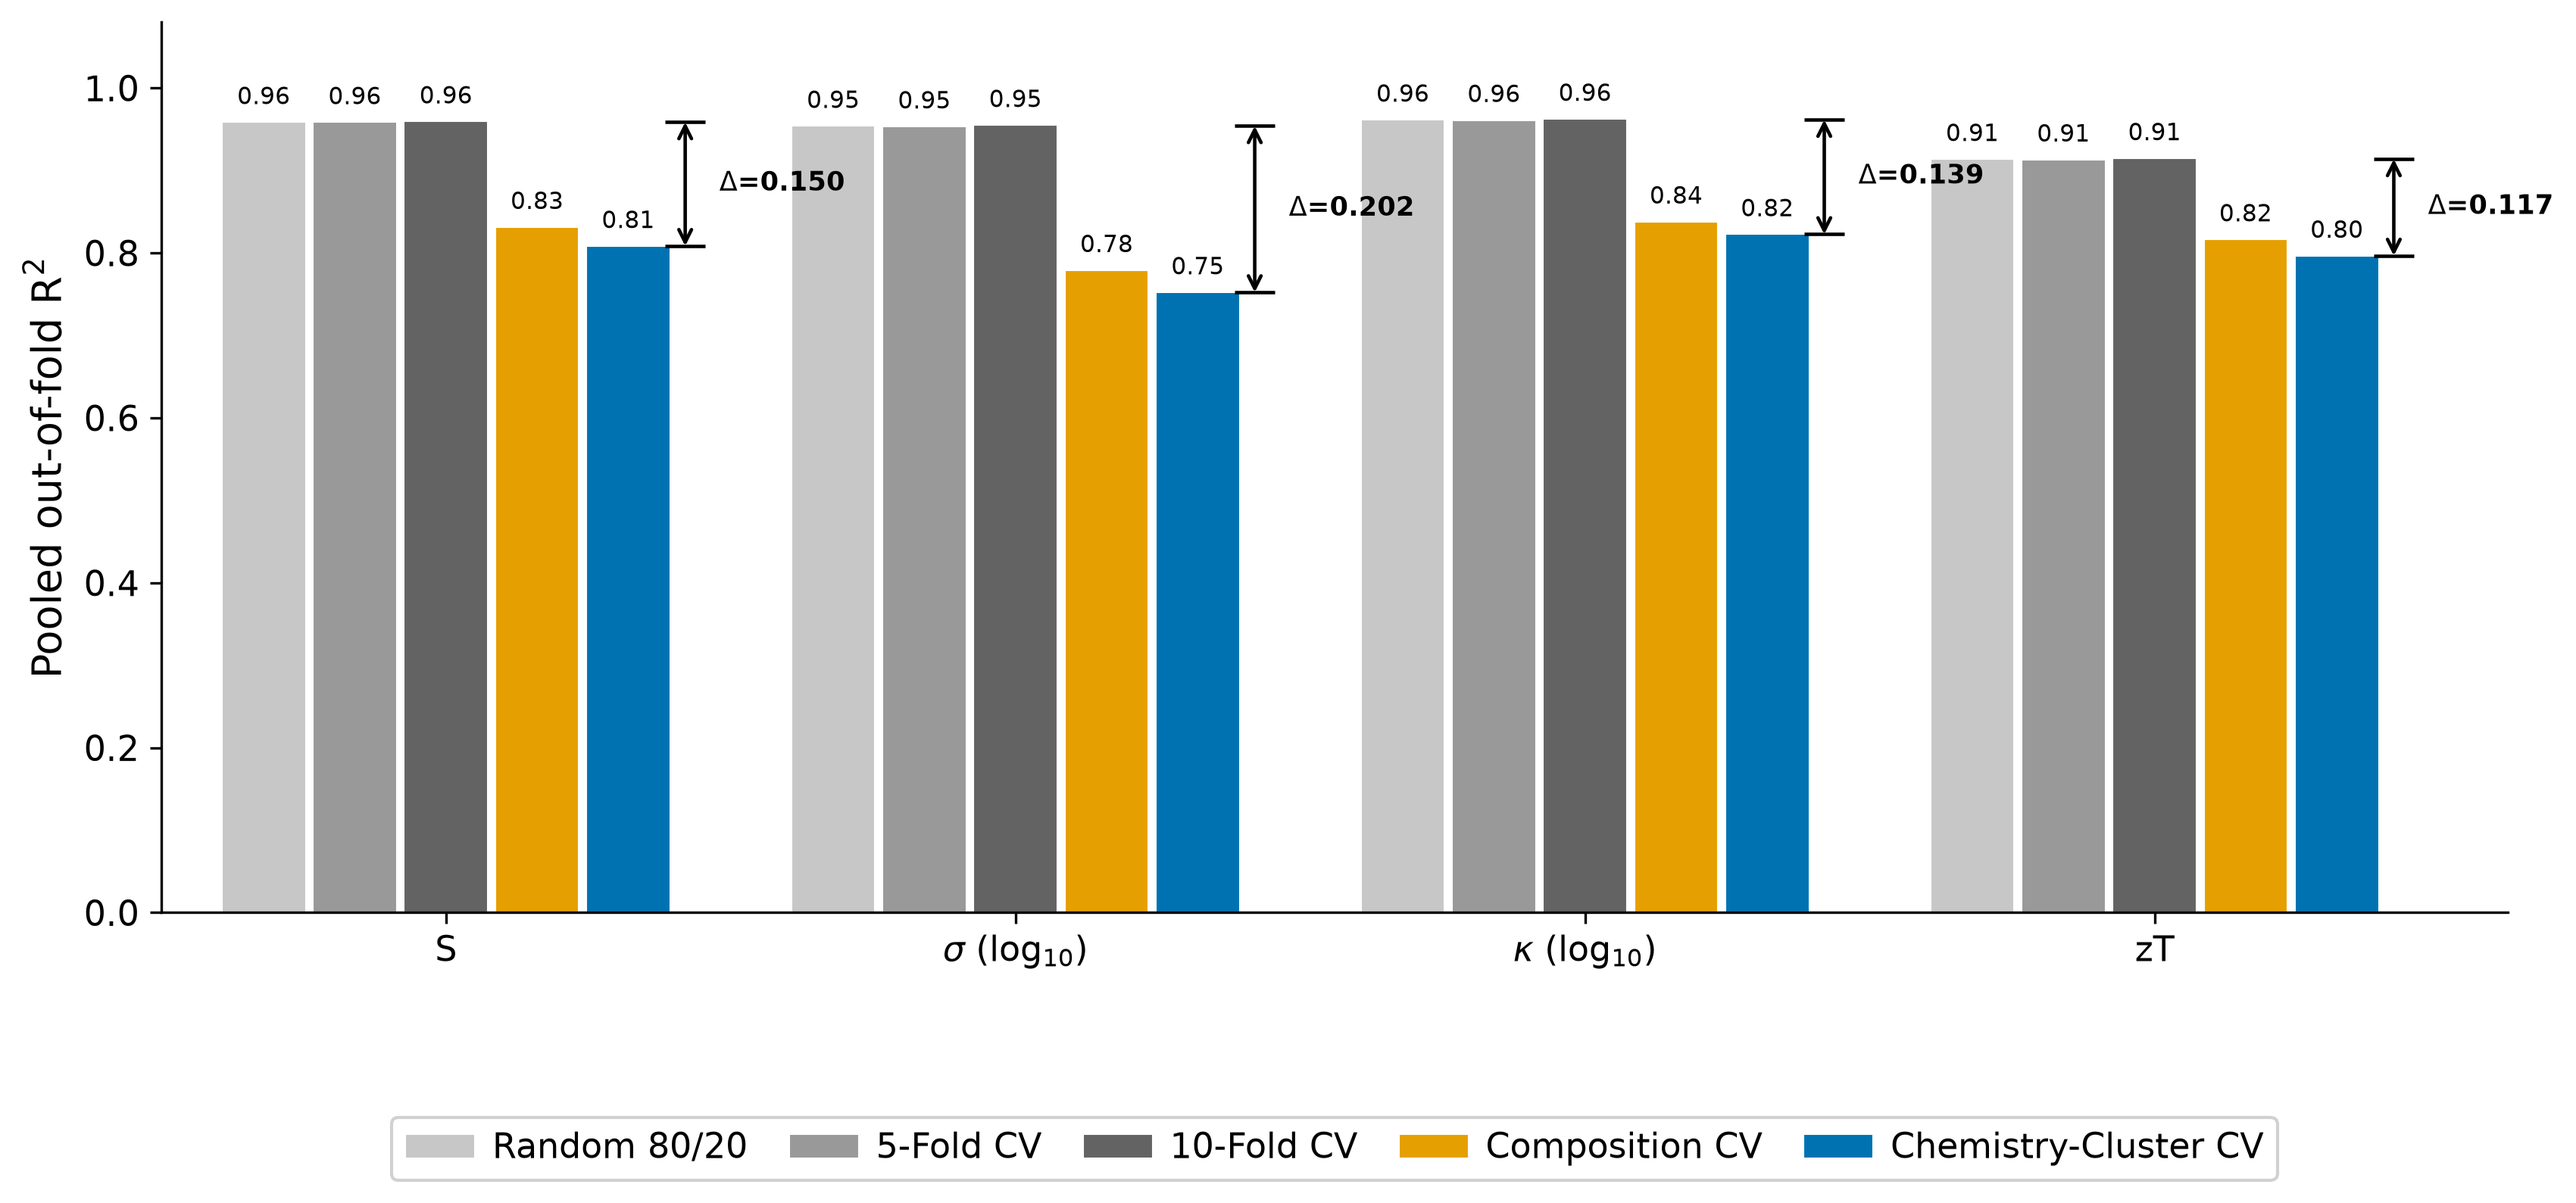
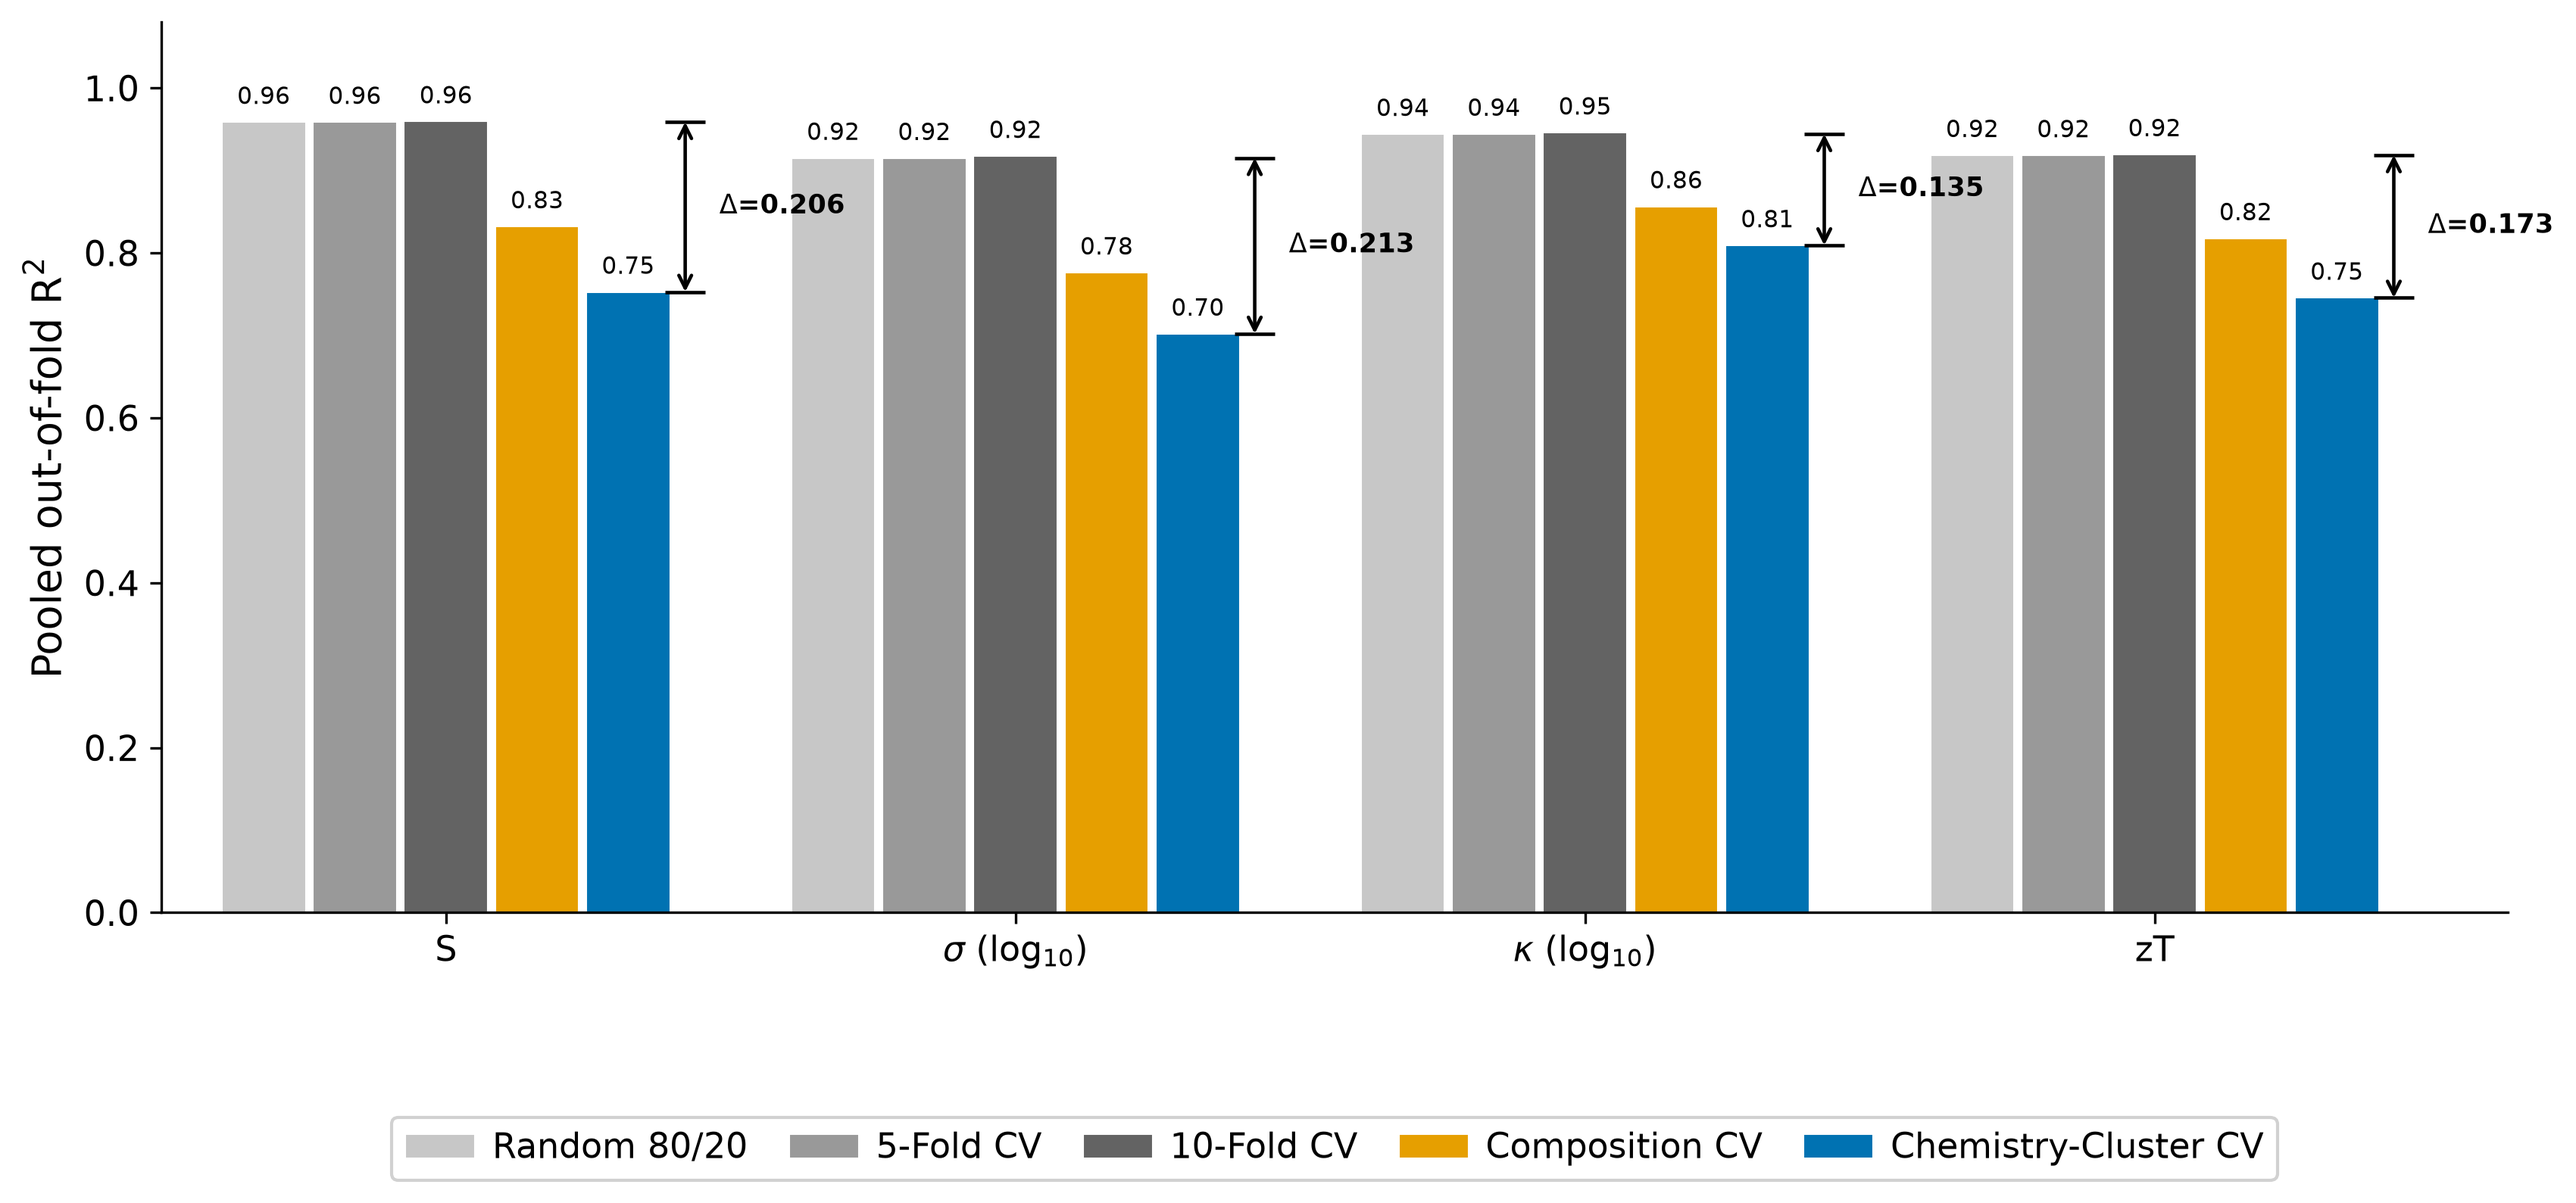
Update validation-ladder constants to snapfix and confirmed-log10 values
LADDER_RESULTS's Composition CV and Chemistry-Cluster CV rows updated to
the snapfix regeneration (results/ladder_regen_snapfix/20260917T150000/,
tabulated in reports/regen_snapfix/20260917T150000/ladder_metrics.json):
composition S=0.8322/sigma=0.7762/kappa=0.8565/zT=0.8178, chemistry
S=0.7528/sigma=0.7020/kappa=0.8092/zT=0.7456.

Random 80/20, 5-fold, and 10-fold rows corrected to CLAUDE.md's confirmed
values (S 0.9588/0.9588/0.9595, sigma 0.9152/0.9150/0.9175, kappa
0.9442/0.9444/0.9459, zT 0.9186/0.9184/0.9196), sourced from
checkpoints/ladder_regen_dl/{target}_{random,kfold}_f{5,10,20}/ --
recomputed pooled R^2 directly from those checkpoints' *_predictions.npz
files and matched CLAUDE.md to 4 decimals on all 12 cells. The previous
ungrouped values here were not a log10-vs-linear scale mismatch (both old
and new use log10 for sigma/kappa, confirmed via each run's own
run_config.json / table header) -- they were the orphaned pre-2026-08-22
run's ungrouped cells, found verbatim in checkpoints/saved_predictions/
te-ml-pipeline/CLAUDE.md, a stale in-tree snapshot of an earlier CLAUDE.md
whose own ladder table matches this file's old values on all five rungs.
That run has no surviving run_config.json anywhere on disk and is the
same one CLAUDE.md already calls out as superseded/unreproducible for its
composition and chemistry cells.

Old values (all five rungs) kept as a commented PRE-FIX (SUPERSEDED)
block, same pattern used for the File B cleaning-funnel constants.
[…]

diff --git a/scripts/make_figures.py b/scripts/make_figures.py
@@ -69,6 +69,24 @@ FIG3_AXIS_LABELS = {
 # cleaning_funnel.png (mislabeled: sits in File A's directory tree but
 # renders File B's funnel) was generated from. File A's own funnel had
 # never been computed until 2026-09-14.
+# STALE (flagged 2026-09-19, values NOT changed): this entire table
+# predates BOTH grouping fixes (SNAP(0.05) chemistry_cluster_id, S5
+# randomized_group_kfold, commit c1c6873) and the reproducible 2026-08-22
+# checkpoint set -- every cell, including the XGBoost row, is from the
+# orphaned pre-2026-08-22 run CLAUDE.md's Five-Way Ladder section
+# describes as "none of which could be verified or reproduced" (XGBoost
+# row here == that section's quoted orphaned values: S=0.8083,
+# sigma=0.7522, kappa=0.8226, zT=0.7965). It is therefore two
+# regenerations behind the current snapfix ladder, not one. Regenerating
+# this figure for real needs LightGBM/Random Forest/Ridge chemistry-
+# cluster refits against the snapfix CSV (tune_once + 5 repeats x 5 outer
+# folds each per model, via nested_cv.py's --model flag and the
+# six-command workflow in CLAUDE.md's Paper A item 1) -- only XGBoost's
+# cell could be swapped in today (from results/ladder_regen_snapfix/
+# 20260917T150000/), so nothing below is touched rather than partially
+# updated. See the make_figures.py task report for the compute-cost
+# estimate of the full rerun.
+#
 # Pooled out-of-fold R^2 under chemistry-cluster grouped CV, frozen
 # hyperparameters per (target, model_type) via nested_cv.py's tune_once,
 # see CLAUDE.md "Confirmed Results -- Five-Way Ladder" and Paper A item
@@ -94,17 +112,72 @@ MODEL_COMPARISON_CEILING_MODEL = "XGBoost"
 # XGBoost hyperparameters reused unchanged across all five rungs -- see
 # CLAUDE.md "Confirmed Results -- Five-Way Ladder" (Paper A item 1).
 # sigma/kappa in log10 space, S/zT linear, same as MODEL_COMPARISON_RESULTS.
+#
+# Composition and Chemistry-Cluster CV rows: results/ladder_regen_snapfix/
+# 20260917T150000/{S,sigma,kappa,zT}_{composition,chemistry}_full/,
+# tabulated in reports/regen_snapfix/20260917T150000/ladder_metrics.json
+# -- regenerated against the fixed grouping (SNAP(0.05)
+# chemistry_cluster_id, S5 randomized_group_kfold, commit c1c6873) and the
+# snapfix featurized CSV. Point estimates only (bar heights below); each
+# also carries an across-5-repeat SD in CLAUDE.md's Five-Way Ladder table
+# (composition: S +/-0.0044, sigma +/-0.0015, kappa +/-0.0013, zT
+# +/-0.0009; chemistry: S +/-0.0050, sigma +/-0.0020, kappa +/-0.0021, zT
+# +/-0.0045) not plotted here, since this figure draws single bar heights
+# with no error-bar mechanism.
+#
+# Random 80/20, 5-Fold, and 10-Fold rows: checkpoints/ladder_regen_dl/
+# {target}_{composition,kfold,random}_f{5,10,20}/ (folder-name suffix is
+# outer-fold count, e.g. sigma_random_f20, kappa_kfold_f10), each with a
+# run_config.json confirming target_scale=log10 (sigma/kappa), seed=0,
+# and the canonical frozen-hyperparameters path. Pooled R^2 recomputed
+# directly from these checkpoints' *_predictions.npz files matches
+# CLAUDE.md's confirmed ungrouped row to 4 decimals on every target.
+# These rungs are unaffected by the SNAP(0.05)/S5 grouping fix for a
+# structural reason, not just a code-path one: the snapfix featurized CSV
+# differs from File A only in the chemistry_cluster_id column (see
+# CLAUDE.md's Grouping Fixes section), and the ungrouped split code path
+# never reads that column, so re-running it against the snapfix CSV
+# cannot change its output.
+#
+# RESOLVED 2026-09-22: the previous values here (S=0.9586, sigma=0.9539,
+# kappa=0.9615, zT=0.9138 for random 80/20, etc.) were NOT a log10-vs-
+# linear scale mismatch -- both this row and the current one use log10
+# for sigma/kappa. They were the orphaned pre-2026-08-22 run's ungrouped
+# cells (found verbatim, all three rows, in checkpoints/saved_predictions/
+# te-ml-pipeline/CLAUDE.md, a stale in-tree snapshot of an earlier
+# CLAUDE.md whose own Five-Way Ladder table -- itself explicitly log10-
+# space -- matches this file's old LADDER_RESULTS on all five rungs) --
+# the same run current CLAUDE.md already calls out as superseded and
+# unreproducible for its composition/chemistry cells. No run_config.json
+# for that orphaned run exists anywhere on disk. See the PRE-FIX
+# (SUPERSEDED) block below for the old values, kept for audit.
 LADDER_PROPERTIES = ["S", "sigma", "kappa", "zT"]
 LADDER_PROPERTY_LABELS = [
     "S", "$\\sigma$ (log$_{10}$)", "$\\kappa$ (log$_{10}$)", "zT",
 ]
 LADDER_STRATEGIES = ["Random 80/20", "5-Fold CV", "10-Fold CV", "Composition CV", "Chemistry-Cluster CV"]
+
+# PRE-FIX (SUPERSEDED 2026-09-19, ungrouped rows added 2026-09-22) -- all
+# five rows below are the orphaned pre-2026-08-22 run (same origin as
+# MODEL_COMPARISON_RESULTS's stale table above). Composition/chemistry
+# were superseded twice over (the reproducible 2026-08-22 checkpoint set,
+# then the SNAP(0.05)/S5 grouping fix); random/5-fold/10-fold are
+# superseded once (by the reproducible 2026-08-22 checkpoint set only --
+# the grouping fix does not touch them, see the comment above). Kept for
+# audit, not deleted -- see CLAUDE.md's Five-Way Ladder section,
+# "SUPERSEDED 2026-09-19" entries.
+# "Random 80/20":         {"S": 0.9586, "sigma": 0.9539, "kappa": 0.9615, "zT": 0.9138},
+# "5-Fold CV":            {"S": 0.9585, "sigma": 0.9533, "kappa": 0.9611, "zT": 0.9132},
+# "10-Fold CV":           {"S": 0.9594, "sigma": 0.9550, "kappa": 0.9625, "zT": 0.9148},
+# "Composition CV":       {"S": 0.8314, "sigma": 0.7791, "kappa": 0.8380, "zT": 0.8164},
+# "Chemistry-Cluster CV": {"S": 0.8083, "sigma": 0.7522, "kappa": 0.8226, "zT": 0.7965},
+
 LADDER_RESULTS = {
-    "Random 80/20":         {"S": 0.9586, "sigma": 0.9539, "kappa": 0.9615, "zT": 0.9138},
-    "5-Fold CV":            {"S": 0.9585, "sigma": 0.9533, "kappa": 0.9611, "zT": 0.9132},
-    "10-Fold CV":           {"S": 0.9594, "sigma": 0.9550, "kappa": 0.9625, "zT": 0.9148},
-    "Composition CV":       {"S": 0.8314, "sigma": 0.7791, "kappa": 0.8380, "zT": 0.8164},
-    "Chemistry-Cluster CV": {"S": 0.8083, "sigma": 0.7522, "kappa": 0.8226, "zT": 0.7965},
+    "Random 80/20":         {"S": 0.9588, "sigma": 0.9152, "kappa": 0.9442, "zT": 0.9186},
+    "5-Fold CV":            {"S": 0.9588, "sigma": 0.9150, "kappa": 0.9444, "zT": 0.9184},
+    "10-Fold CV":           {"S": 0.9595, "sigma": 0.9175, "kappa": 0.9459, "zT": 0.9196},
+    "Composition CV":       {"S": 0.8322, "sigma": 0.7762, "kappa": 0.8565, "zT": 0.8178},
+    "Chemistry-Cluster CV": {"S": 0.7528, "sigma": 0.7020, "kappa": 0.8092, "zT": 0.7456},
 }
 LADDER_LEAKY_STRATEGY = "Random 80/20"
 LADDER_HONEST_STRATEGY = "Chemistry-Cluster CV"
